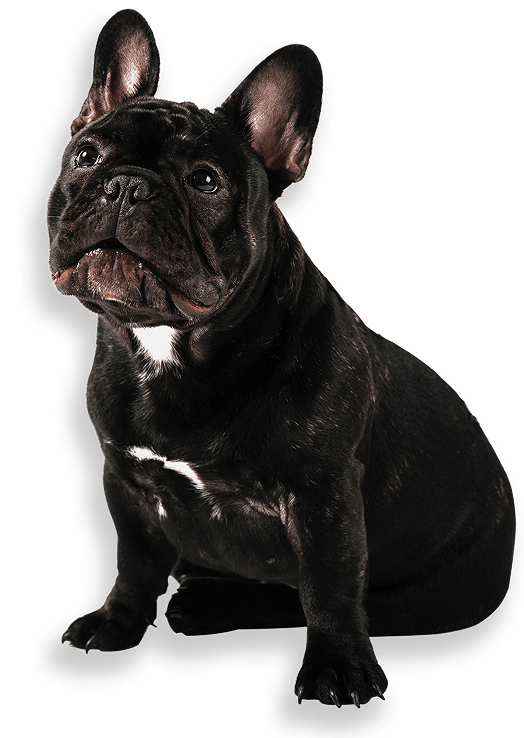
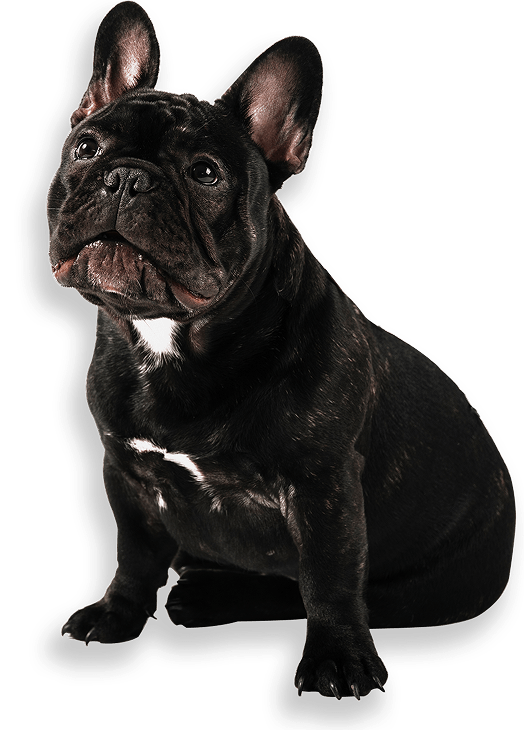
style(PT-88): adjust spacing and sizes for Home Page, remove unused classes

diff --git a/src/features/heroSection/components/Hero/HeroFilters.tsx b/src/features/heroSection/components/Hero/HeroFilters.tsx
@@ -10,14 +10,10 @@ import { useState } from 'react';
 const HeroFilters = () => {
   const selectedAnimal = useAppSelector(selectAnimal);
   const [selectedDistrict, setSelectedDistrict] = useState<string>('');
-  const heightClass =
-    selectedAnimal === 'cat' ? 'max-h-[416px]' : 'max-h-[622px]';
-  const mobileBottomPadding =
-    selectedAnimal === 'dog' ? 'pb-[77px]' : 'pb-[27px]';
 
   return (
     <div
-      className={`absolute z-20 xl:z-60 bg-alabaster shadow-box rounded-[25px] xl:rounded-2xl py-[27px] px-4.5 xl:py-5 xl:px-8 xl:w-[1040px] mx-auto xl:max-h-[298px] flex flex-col xl:gap-3.5 xl:mb-0 xl:top-[476px] left-1/2 -translate-x-1/2 ${heightClass} ${mobileBottomPadding}`}
+      className={`absolute z-20 xl:z-60 bg-alabaster shadow-box rounded-[25px] xl:rounded-2xl py-7 px-4.5 xl:py-5 xl:px-8 xl:w-[1040px] mx-auto xl:max-h-[298px] flex flex-col xl:gap-3.5 xl:mb-0 xl:top-[476px] left-1/2 -translate-x-1/2 `}
     >
       <div className="flex flex-col xl:flex-row xl:justify-center gap-[13px] xl:gap-8 mb-[38px] xl:mb-0">
         <AnimalSelector />

diff --git a/src/features/heroSection/pages/HeroSection.tsx b/src/features/heroSection/pages/HeroSection.tsx
@@ -9,13 +9,11 @@ const HeroSection = () => {
   const selectedAnimal = useAppSelector(selectAnimal);
 
   const heightClass =
-    selectedAnimal === 'cat'
-      ? 'h-[662px] xl:max-h-180'
-      : 'h-[858px] xl:max-h-180';
+    selectedAnimal === 'cat' ? 'h-[666px] xl:h-180' : 'h-[794px] xl:h-180';
 
   return (
     <section
-      className={`relative w-full max-w-[375px] xl:max-w-[1280px] mx-auto rounded-b-[40px] -mt-[56px] xl:-mt-20 px-[15px] pt-0 xl:py-12 xl:px-30 xl:mb-40 bg-hero-gradient ${heightClass}`}
+      className={`relative w-full max-w-[375px] xl:max-w-[1280px] mx-auto rounded-b-[40px] -mt-[56px] xl:-mt-20 px-[15px] pt-0 xl:py-12 xl:px-30 bg-hero-gradient ${heightClass}`}
     >
       <div className="flex xl:flex-row items-start xl:items-center">
         <HeroTitle />

diff --git a/src/pages/Home/HomePage.tsx b/src/pages/Home/HomePage.tsx
@@ -1,7 +1,11 @@
 import HeroSection from '@/features/heroSection/pages/HeroSection';
 
 const HomePage = () => {
-  return <HeroSection />;
+  return (
+    <div className="pb-34 xl:pb-40">
+      <HeroSection />
+    </div>
+  );
 };
 
 export default HomePage;

diff --git a/src/shared/components/Layout/Footer/Footer.tsx b/src/shared/components/Layout/Footer/Footer.tsx
@@ -9,10 +9,10 @@ const Footer = () => {
   return (
     <footer
       role="contentinfo"
-      className="w-full mx-auto text-alabaster bg-footer-gradient rounded-t-[60px] p-10 max-w-[375px] xl:px-[120px] xl:pt-[29px] xl:pb-[25px] xl:max-w-[1280px] mt-[137px] xl:mt-0"
+      className="w-full mx-auto text-alabaster bg-footer-gradient rounded-t-[60px] p-10 max-w-[375px] xl:px-[120px] xl:py-7 xl:max-w-[1280px]"
     >
       {/* Логотип */}
-      <div className="flex justify-center mb-[77px] xl:mb-[39px]">
+      <div className="flex justify-center mb-19.5 xl:mb-10">
         <Logo
           iconSize="w-[60px] h-[40px]"
           iconFill="fill-alabaster"

diff --git a/src/features/heroSection/components/Hero/HeroImage.tsx b/src/features/heroSection/components/Hero/HeroImage.tsx
@@ -4,7 +4,7 @@ type HeroImageProps = {
 const HeroImage = ({ className = '' }: HeroImageProps) => {
   return (
     <div
-      className={`hidden xl:block absolute right-[51px] top-[49px] overflow-visible w-full max-w-[524px] max-h-[738px] ${className}`}
+      className={`hidden xl:block absolute right-[51px] top-[58px] w-full max-w-[524px] max-h-[738px] ${className}`}
     >
       <img
         src="/images/hero-mops-1x.png"

diff --git a/src/features/heroSection/components/Hero/WeightSelector.tsx b/src/features/heroSection/components/Hero/WeightSelector.tsx
@@ -1,7 +1,7 @@
 import { dogsWeight } from '@/shared/constants/dogsWeight';
 const WeightSelector = () => {
   return (
-    <div className="grid grid-cols-2 gap-x-[37px] gap-y-5 mb-[53px] xl:mb-0 xl:flex xl:gap-[29px] xl:justify-between">
+    <div className="grid grid-cols-2 gap-x-[37px] gap-y-5 mb-6 xl:mb-0 xl:flex xl:gap-[29px] xl:justify-between">
       {dogsWeight.map(w => (
         <button
           type="button"